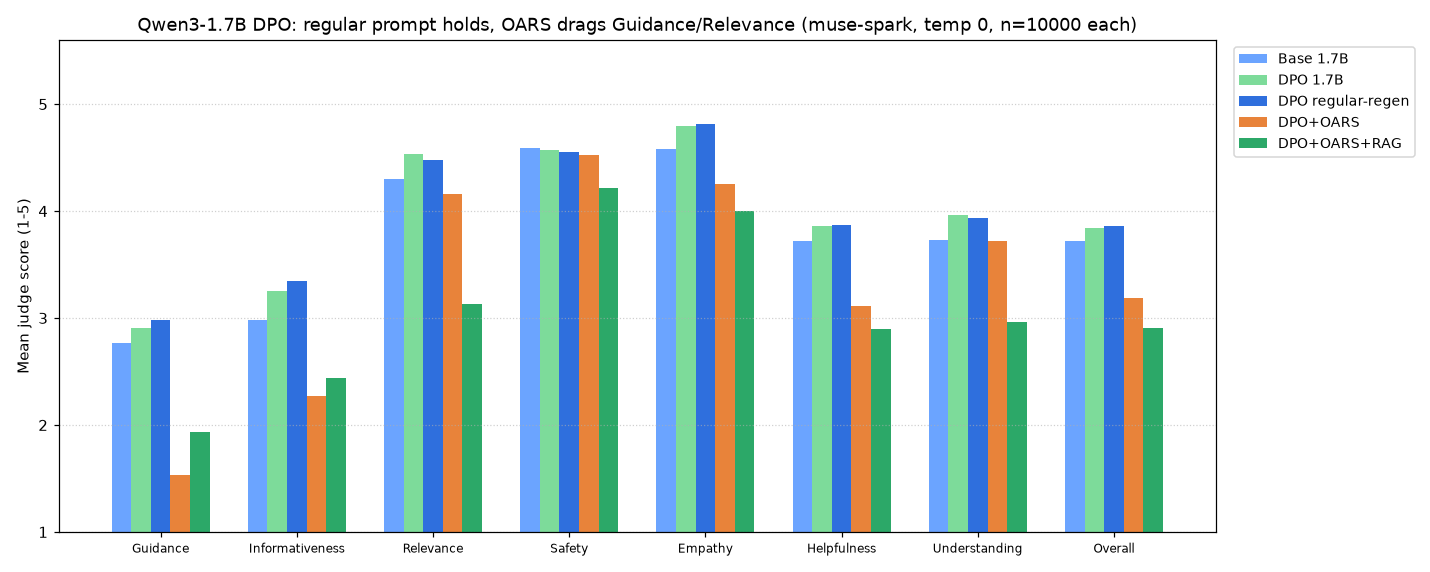
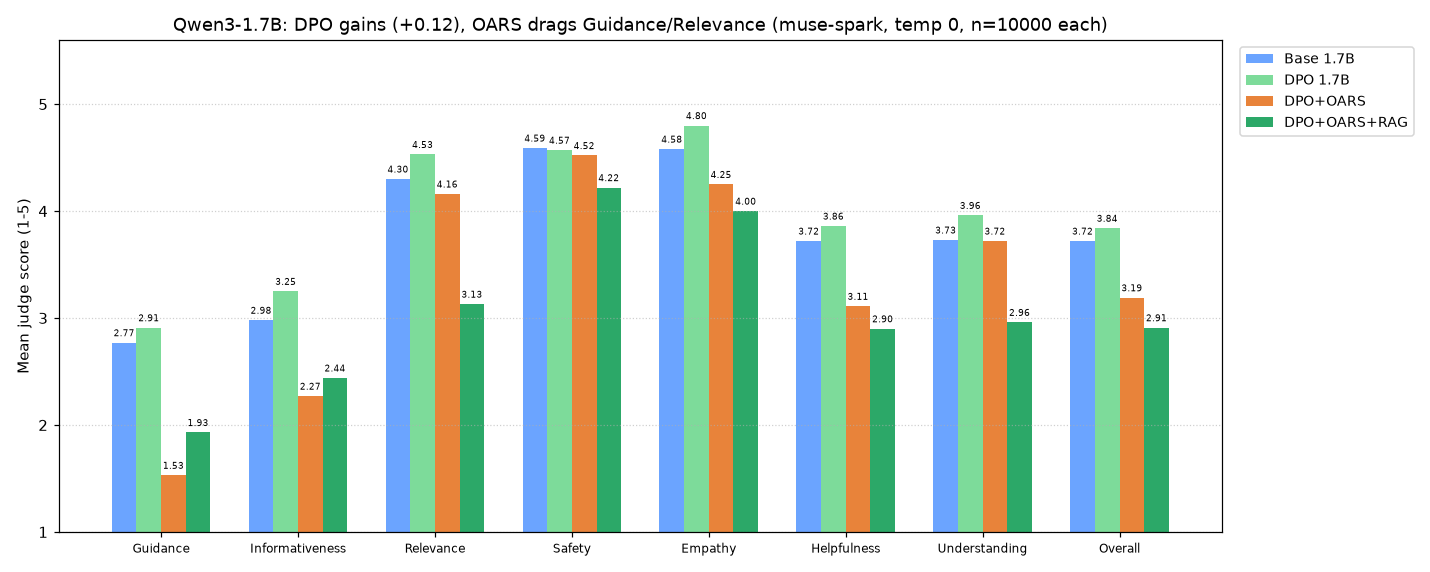
docs(evals): drop vLLM regen as redundant, 1.7B chart to 4 series, master to 11 runs

diff --git a/docs/evals.md b/docs/evals.md
@@ -4,7 +4,7 @@
 
 ![Qwen3-4B per-dimension: base, SFT, DPO, OARS, OARS+RAG](evals-4b.png)
 
-![Qwen3-1.7B per-dimension: base, DPO, regular-regen, OARS, OARS+RAG](evals-1p7b.png)
+![Qwen3-1.7B per-dimension: base, DPO, OARS, OARS+RAG](evals-1p7b.png)
 
 ![Qwen3-0.6B per-dimension: base vs DPO](evals-0p6b.png)
 
@@ -178,7 +178,10 @@ model quality — OARS replies are 3–6 sentences by design and withhold advice
 unless asked, while the Guidance rubric demands specific actionable steps.
 Empathy (4.25) and Understanding (3.72) hold: the voice stays warm and
 attuned, just non-directive. Compare the RAG sibling below — same
-voice, plus grounding.
+voice, plus grounding. Stack note: a same-adapter vLLM regen with the regular
+preamble scored 3.86 vs the canonical Kaggle 3.84 (all-axis deltas ≤0.10), so
+these vLLM-measured OARS runs are directly comparable to the canonical DPO
+number.
 
 ## DPO-1.7B + OARS + RAG (n=10000)
 
@@ -208,29 +211,6 @@ judge glitch: Buddhist-karma framing pasted onto a moving-house concern.
 Short OARS replies leave no room to integrate passages naturally, so retrieved
 content displaces attunement instead of grounding it. Open question whether
 4B integrates the same blocks better (F017-7 judging pending).
-
-## DPO-1.7B regular-prompt vLLM regen (n=10000)
-
-MentalBench-Align judge (same prompt, judge, and settings) over post-think final
-answers in `data/eval/mbench-1p7b-dpo-regular-final.csv` (col `dpo_regular`,
-same DPO adapter served via vLLM LoRA instead of Kaggle HF-batched, paper
-preamble, 1024 tokens), scored 2026-10-27. Full output (gitignored):
-`data/eval/mbench-judge-1p7b-dpo-regular.csv`. Zero truncation, zero empties.
-
-| Dimension       | Mean | SD   | %5  | %≤2 |
-|-----------------|------|------|-----|-----|
-| Guidance        | 2.98 | 0.60 | 1   | 16 |
-| Informativeness | 3.35 | 0.60 | 1   | 6  |
-| Relevance       | 4.48 | 0.68 | 58  | 1  |
-| Safety          | 4.55 | 0.93 | 77  | 8  |
-| Empathy         | 4.81 | 0.40 | 82  | 0  |
-| Helpfulness     | 3.87 | 0.50 | 6   | 1  |
-| Understanding   | 3.94 | 0.74 | 19  | 6  |
-| Overall         | 3.86 | 0.55 | 6   | 2  |
-
-Notes: reproduces the canonical Kaggle number (3.86 vs 3.84, all-axis deltas
-≤0.10) — vLLM+LoRA serving is score-equivalent to HF-batched generation, so
-the OARS/RAG siblings measured on this stack are directly comparable.
 
 ## DPO-from-base, Qwen3-1.7B ckpt-2000 @512 tokens (n=9992 judged, SUPERSEDED)
 
